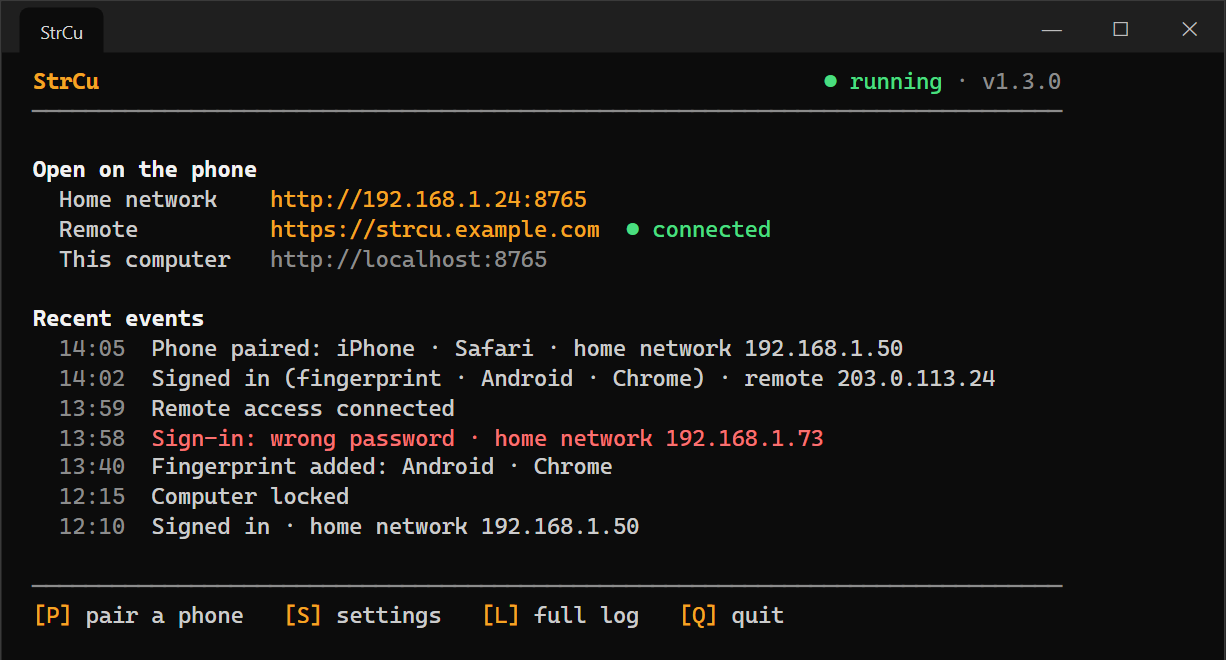
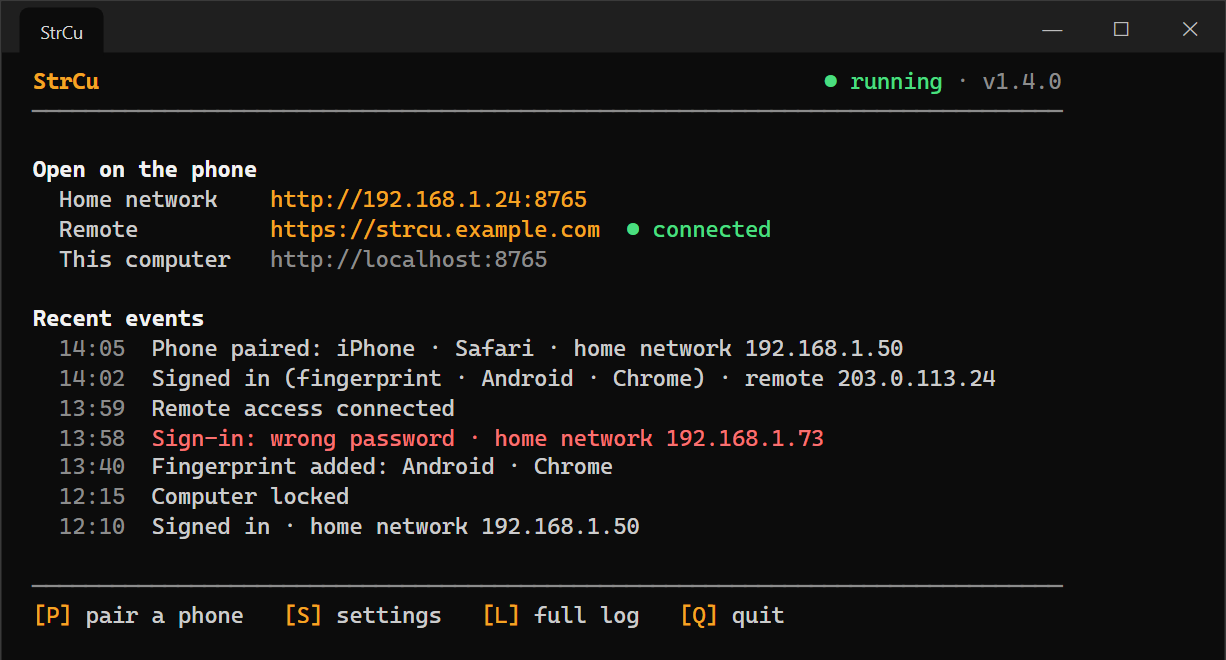
Version 1.4.0
README: the live dot turns red only when the image in view lags. Screenshots
taken again (main screen shows v1.4.0).

Claude-Session: https://claude.ai/code/session_01KWf8kYusuF5zzxoVmzkisz

diff --git a/README.md b/README.md
@@ -92,7 +92,7 @@ Seven tabs: Screen, Keyboard, Elements, Windows, Files, Macros, More.
 
 - **Top bar:** the foreground window with its app icon; tap it for the list of open windows. Shows when the
   computer is locked. Next to it, the live view controls (HD / SD / ❚❚) with a dot: green while the image is
-  live, red when it is paused or lagging.
+  live, red when it is paused or when the image in view lags.
 - **Screen:** a tap aims the crosshair; a bar with Click / Double / Right, ↑ / ↓ (scroll) and ✕ appears next to
   it. Below the image, a magnifier and the element's name. A typing box and eight common keys sit underneath.
 - **Quick** (the switch under the image) skips the crosshair. A tap clicks, a quarter of a second later in case
